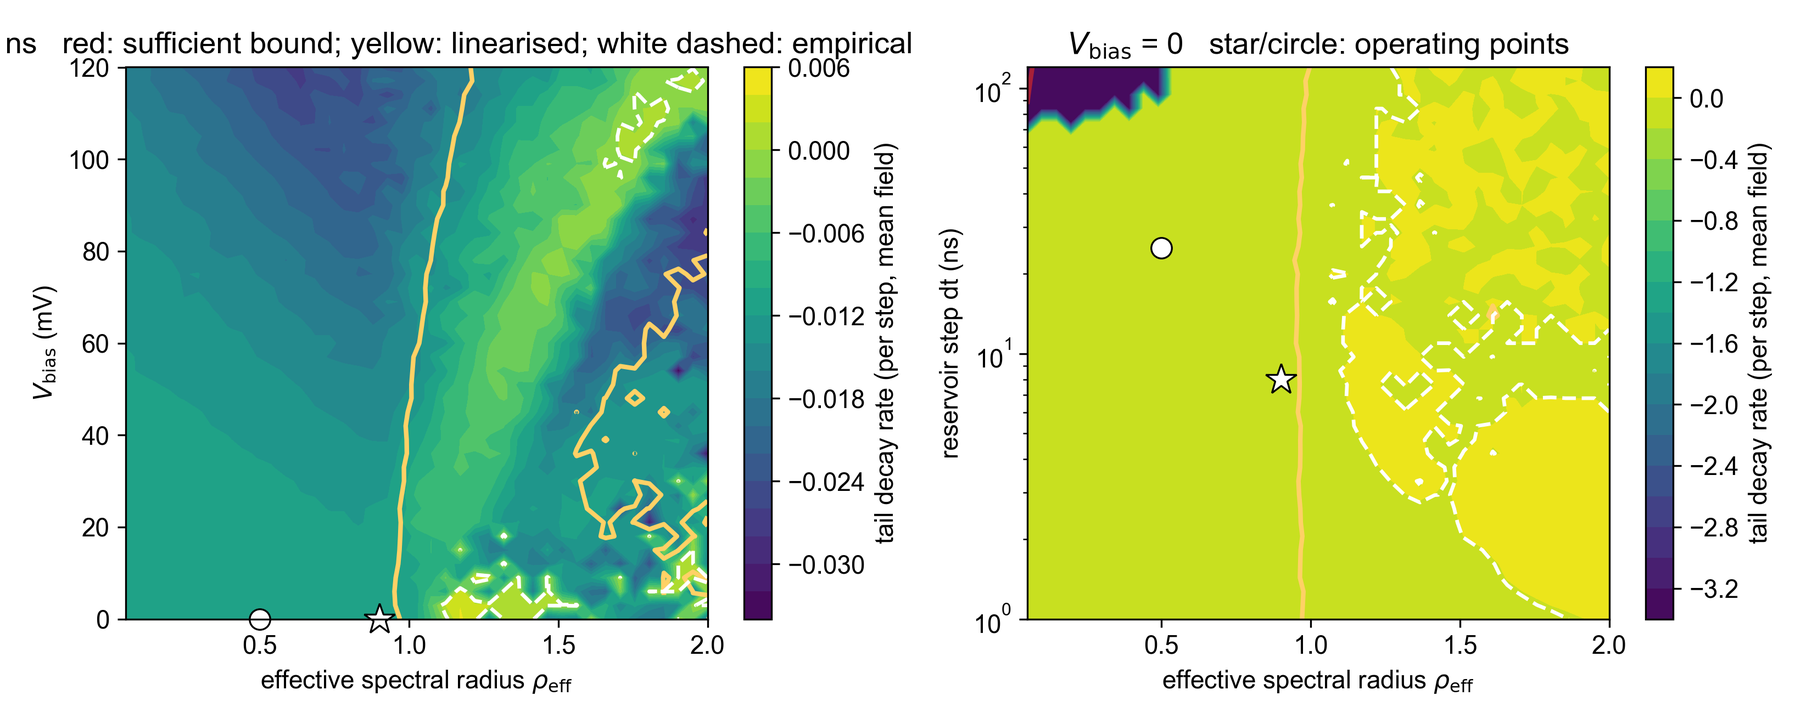
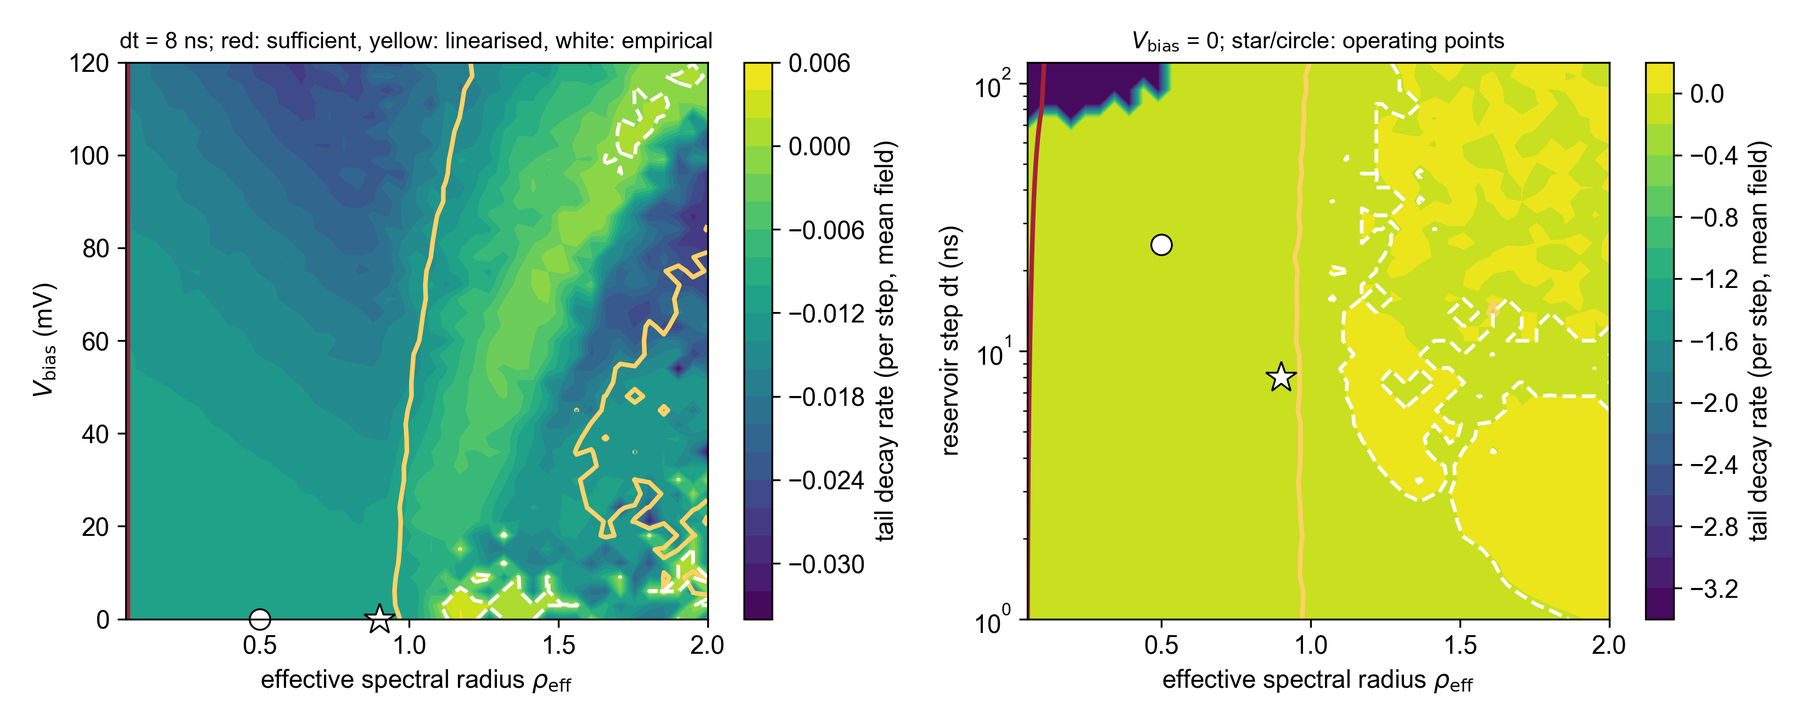
T1-4 core: ESP certification for the telegraph reservoir (three-tier criteria)
- Jacobian of the actual mean-field update has two W_res channels (transfer slope + state-dependent decay rate); three-tier phase diagram: device-resolved row-norm sufficient bound (rigorous but structurally weak - slow devices are steep devices, (1-lam) cancels, certifies rho<~0.06), trajectory-linearised spectral criterion (boundary at rho~1, dt-independent at zero bias by exact leak-slope cancellation, bent right by bias to ~1.7@100mV), rate-based twin verdict (97% contracting; non-contracting = bistable high-rho/low-bias region)
- soundness 0 violations; linearised criterion optimistic at only 3/1681 points; common-noise stochastic twins confirm the bistability and its bias-induced restoration (readout distance 2.0 -> 0.2 at 60 mV)
- both chapter operating points verified contracting (default lin=0.995 near-boundary - margin caveat queued for the manuscript; exp16 lin=0.968)
- method iterations recorded: absolute-threshold twin verdict misclassifies slow heterogeneous nodes; uniform norm bounds are vacuous - replaced by rate verdict + row-resolved bound

diff --git a/experiments/29_esp_certification.py b/experiments/29_esp_certification.py
@@ -1,0 +1,348 @@
+"""29 -- Echo-state property certification for the telegraph reservoir (T1-4).
+
+The reservoir chapter asserts the echo-state regime but nothing in the
+repo verifies it. This experiment derives and validates a sufficient
+contraction criterion for the mean-field update actually implemented in
+reservoir/node.py:
+
+    x_i(t) = m_inf(V_i) + (x_i(t-1) - m_inf(V_i)) exp(-k(V_i) dt),
+    V_i    = V_bias + (W_in u_t)_i + (W_res x(t-1))_i,
+
+with m_inf(V) = tanh(Delta V / V_c0) and k(V) = 1/tau(V)
+= (2 e^-Delta / tau_0) cosh(Delta V / V_c0). The state-to-state Jacobian
+has TWO channels through W_res -- the transfer slope and the
+state-dependent decay rate:
+
+    dx_i/dx_j = lam_i delta_ij + W_ij [ (1-lam_i) m_inf'(V_i)
+                 + (x_i - m_inf(V_i)) (-dt k'(V_i)) lam_i ],
+
+so a uniform sufficient condition for contraction (infinity norm, worst
+case over the reachable voltage interval |V - V_bias| <= ||W_in||_inf
++ ||W_res||_inf and over the +-2 sigma Delta-heterogeneity grid) is
+
+    L = max_V,Delta [ lam(V) + G(V) ||W_res||_inf ] < 1,
+    G = (1-lam) m_inf'(V) + 2 lam dt |k'(V)|.
+
+The same voltage moves the two stability channels in opposite
+directions: raising |V| collapses the transfer slope (stabilising) while
+raising k exponentially shortens the memory AND raises the |k'| decay
+channel -- the device-specific coupling that makes the phase diagram
+non-trivial.
+
+Parts
+-----
+  (a) certified phase diagram over (rho_eff, V_bias) at the default
+      dt = 8 ns and over (rho_eff, dt) at V_bias = 0, with the chapter
+      operating points marked;
+  (b) empirical mean-field boundary: twin trajectories from x0 = +-1
+      under a common input sequence; convergent iff the terminal state
+      distance falls below 1e-6 (the certificate region must be a
+      subset of the empirical convergent region -- soundness);
+  (c) stochastic-mode check at a subgrid: COMMON-NOISE twin ensembles
+      (same RNG stream, state-independent draw pattern verified in
+      telegraph.py:step), convergence measured at the readout layer
+      (per-node ensemble means). This is the coupling/common-input
+      convergence notion -- an unqualified "stochastic ESP" would be
+      trivially true and is not claimed.
+
+Outputs: runs/29_esp_cert_<ts>/{phase.csv, summary.json}
+         figures/29_esp_certification.png  (letter-free)
+
+Run from the repo root:  python experiments/29_esp_certification.py
+"""
+
+from __future__ import annotations
+
+import csv
+import json
+import sys
+from pathlib import Path
+
+REPO = Path(__file__).resolve().parents[1]
+sys.path.insert(0, str(REPO / "src"))
+
+DELTA, V_C0, TAU_0 = 4.91, 0.857, 1e-9
+DELTA_CV = 0.25              # reservoir D2D heterogeneity (ReservoirConfig)
+IN_SCALE = 0.6               # default effective input scale
+N_NODES = 100
+RHO_GRID = 41
+VB_GRID = 41
+N_STEPS = 400
+SEED = 7
+
+
+def main() -> None:
+    import matplotlib
+    matplotlib.use("Agg")
+    import matplotlib.pyplot as plt
+    import numpy as np
+
+    from smtj_pbnn_sim.device.telegraph import TelegraphArray, TelegraphParams
+    from smtj_pbnn_sim.reservoir.node import ReservoirConfig, SMTJReservoir
+    from smtj_pbnn_sim.utils.io import make_run_dir
+
+    rng = np.random.default_rng(SEED)
+    run_dir = make_run_dir("29_esp_cert", base=REPO / "runs")
+    plt.rcParams.update({"font.family": "Arial", "font.size": 11})
+
+    slope0 = DELTA / V_C0
+    k0 = 2.0 * np.exp(-DELTA) / TAU_0            # k(0) = 1/tau(0)
+
+    # base reservoir at rho_eff = 1 (library-consistent weight draw)
+    cfg = ReservoirConfig(n_nodes=N_NODES, effective_spectral_radius=1.0,
+                          effective_input_scale=IN_SCALE, mode="meanfield",
+                          seed=SEED)
+    res = SMTJReservoir(cfg, n_inputs=1)
+    W_in = res.W_in.copy()                        # volts
+    W_res1 = res.W_res.copy()                     # volts, rho_eff = 1
+    win_norm = float(np.abs(W_in).sum(axis=1).max())
+    wres1_norm = float(np.abs(W_res1).sum(axis=1).max())
+    deltas = np.array([DELTA * (1 - 2 * DELTA_CV), DELTA,
+                       DELTA * (1 + 2 * DELTA_CV)])
+
+    sig1 = float(np.linalg.svd(W_res1, compute_uv=False)[0])
+    row1 = np.abs(W_res1).sum(axis=1)             # per-row inf-norms, rho = 1
+
+    def certificate(rho: float, v_bias: float, dt: float) -> float:
+        """Device-resolved sufficient-contraction factor; certified iff < 1.
+
+        Row-wise infinity-norm bound on the Jacobian: node i contributes
+        lam_i + G_i * R_i with ITS OWN drawn Delta_i and row norm R_i --
+        strictly rigorous and much tighter than a uniform worst case,
+        which is vacuous here because the slowest device (highest Delta,
+        lam ~ 0.99) is also the steepest (m' = Delta/V_c0): note the
+        (1-lam) factor cancels in the slope channel, so the certified rho
+        scales like V_c0 / (Delta_i R_i) regardless of dt. The linearised
+        spectral criterion below is the practical boundary, the twin run
+        the ground truth.
+        """
+        V = np.linspace(-1.0, 1.0, 401)[None, :]
+        d = np.asarray(res.Delta)[:, None]
+        arg = d * V / V_C0
+        k = (2.0 * np.exp(-d) / TAU_0) * np.cosh(arg)
+        lam = np.exp(-k * dt)
+        m_p = (d / V_C0) / np.cosh(arg) ** 2
+        k_p = (2.0 * np.exp(-d) / TAU_0) * (d / V_C0) * np.sinh(arg)
+        G = (1 - lam) * m_p + 2.0 * lam * dt * np.abs(k_p)
+        per_node = (lam + G * (rho * row1)[:, None]).max(axis=1)
+        return float(per_node.max())
+
+    def _mf_step(s, u_t, W_res, v_bias, dt):
+        V = v_bias + W_in[:, 0] * u_t + W_res @ s
+        arg = res.Delta * V / res.V_c0
+        k = (2.0 * np.exp(-res.Delta) / TAU_0) * np.cosh(arg)
+        m_inf = np.tanh(arg)
+        return m_inf + (s - m_inf) * np.exp(-k * dt), V, k, m_inf
+
+    def meanfield_twin(rho: float, v_bias: float, dt: float):
+        """Twin mean-field trajectories -> (terminal distance, decay rate).
+
+        The verdict uses the tail DECAY RATE (log-distance slope per step
+        over the second half), not an absolute threshold: with +-2 sigma
+        Delta heterogeneity the slowest node has tau(0) ~ 0.8 us, so a
+        fixed horizon would misclassify slow-but-contracting points.
+        """
+        W_res = rho * W_res1
+        u = rng.random(N_STEPS) * 2 - 1
+        x = np.ones(N_NODES)
+        xp = -np.ones(N_NODES)
+        d_mid = 2.0
+        for t in range(N_STEPS):
+            x, _, _, _ = _mf_step(x, u[t], W_res, v_bias, dt)
+            xp, _, _, _ = _mf_step(xp, u[t], W_res, v_bias, dt)
+            if t == N_STEPS // 2 - 1:
+                d_mid = max(float(np.abs(x - xp).max()), 1e-300)
+        d_end = max(float(np.abs(x - xp).max()), 1e-300)
+        rate = (np.log(d_end) - np.log(d_mid)) / (N_STEPS - N_STEPS // 2)
+        return d_end, float(rate)
+
+    def linearized_rho(rho: float, v_bias: float, dt: float) -> float:
+        """Practical criterion: spectral radius of the Jacobian linearised
+        along a driven trajectory (per-node worst gains over the tail)."""
+        W_res = rho * W_res1
+        u = rng.random(200) * 2 - 1
+        x = np.zeros(N_NODES)
+        lam_max = np.zeros(N_NODES)
+        g_max = np.zeros(N_NODES)
+        for t in range(200):
+            x_new, V, k, m_inf = _mf_step(x, u[t], W_res, v_bias, dt)
+            if t >= 100:
+                arg = res.Delta * V / res.V_c0
+                lam = np.exp(-k * dt)
+                m_p = (res.Delta / res.V_c0) / np.cosh(arg) ** 2
+                k_p = ((2.0 * np.exp(-res.Delta) / TAU_0)
+                       * (res.Delta / res.V_c0) * np.sinh(arg))
+                g = (1 - lam) * m_p + np.abs(x - m_inf) * dt * np.abs(k_p) * lam
+                lam_max = np.maximum(lam_max, lam)
+                g_max = np.maximum(g_max, g)
+            x = x_new
+        J = np.diag(lam_max) + g_max[:, None] * W_res
+        return float(np.abs(np.linalg.eigvals(J)).max())
+
+    def stochastic_twin(rho: float, v_bias: float, dt: float,
+                        ensemble: int = 24, substeps: int = 10) -> float:
+        """Readout-layer distance of common-noise twin ensembles."""
+        W_res = rho * W_res1
+        n_dev = N_NODES * ensemble
+        deltas_dev = np.repeat(res.Delta, ensemble)
+        a1 = TelegraphArray(n_dev, TelegraphParams(), Delta=deltas_dev,
+                            seed=999)
+        a2 = TelegraphArray(n_dev, TelegraphParams(), Delta=deltas_dev,
+                            seed=999)
+        a1.reset(np.ones(n_dev))
+        a2.reset(-np.ones(n_dev))
+        u = rng.random(N_STEPS) * 2 - 1
+        x1 = np.ones(N_NODES)
+        x2 = -np.ones(N_NODES)
+        micro = dt / substeps
+        for t in range(N_STEPS):
+            V1 = v_bias + W_in[:, 0] * u[t] + W_res @ x1
+            V2 = v_bias + W_in[:, 0] * u[t] + W_res @ x2
+            acc1 = np.zeros(n_dev)
+            acc2 = np.zeros(n_dev)
+            for _ in range(substeps):
+                acc1 += a1.step(np.repeat(V1, ensemble), micro)
+                acc2 += a2.step(np.repeat(V2, ensemble), micro)
+            x1 = (acc1 / substeps).reshape(N_NODES, ensemble).mean(axis=1)
+            x2 = (acc2 / substeps).reshape(N_NODES, ensemble).mean(axis=1)
+        return float(np.abs(x1 - x2).max())
+
+    # ----- (a)+(b): rho x V_bias plane at dt = 8 ns -----------------------
+    dt0 = 8.0e-9
+    rhos = np.linspace(0.05, 2.0, RHO_GRID)
+    vbs = np.linspace(0.0, 0.12, VB_GRID)
+    L_map = np.zeros((VB_GRID, RHO_GRID))
+    R_map = np.zeros((VB_GRID, RHO_GRID))      # tail decay rate (per step)
+    S_map = np.zeros((VB_GRID, RHO_GRID))      # linearised spectral radius
+    for i, vb in enumerate(vbs):
+        for j, r in enumerate(rhos):
+            L_map[i, j] = certificate(r, vb, dt0)
+            _, R_map[i, j] = meanfield_twin(r, vb, dt0)
+            S_map[i, j] = linearized_rho(r, vb, dt0)
+        if (i + 1) % 10 == 0 or i == VB_GRID - 1:
+            print(f"V_bias plane: {i + 1}/{VB_GRID} rows")
+
+    # ----- (a2): rho x dt plane at V_bias = 0 -----------------------------
+    dts = np.logspace(np.log10(1e-9), np.log10(120e-9), VB_GRID)
+    L_dt = np.zeros((VB_GRID, RHO_GRID))
+    R_dt = np.zeros((VB_GRID, RHO_GRID))
+    S_dt = np.zeros((VB_GRID, RHO_GRID))
+    for i, dtv in enumerate(dts):
+        for j, r in enumerate(rhos):
+            L_dt[i, j] = certificate(r, 0.0, dtv)
+            _, R_dt[i, j] = meanfield_twin(r, 0.0, dtv)
+            S_dt[i, j] = linearized_rho(r, 0.0, dtv)
+        if (i + 1) % 10 == 0 or i == VB_GRID - 1:
+            print(f"dt plane: {i + 1}/{VB_GRID} rows")
+
+    # ----- (c): stochastic common-noise subgrid ---------------------------
+    sto = []
+    for r in (0.5, 0.9, 1.4, 1.8):
+        for vb in (0.0, 0.06):
+            d_end = stochastic_twin(r, vb, dt0)
+            i_vb = int(np.argmin(np.abs(vbs - vb)))
+            sto.append(dict(rho=r, v_bias=vb, d_end=round(d_end, 4),
+                            cert_L=round(certificate(r, vb, dt0), 3),
+                            lin_rho=round(float(np.interp(
+                                r, rhos, S_map[i_vb])), 3),
+                            mf_rate=round(float(np.interp(
+                                r, rhos, R_map[i_vb])), 5)))
+            print(f"stochastic twin rho={r:.1f} Vb={vb*1e3:.0f}mV: "
+                  f"readout distance {d_end:.4f} "
+                  f"(lin rho={sto[-1]['lin_rho']})")
+
+    # ----- soundness: certified region must contract empirically ----------
+    RATE_TH = -1e-4                      # per-step tail decay-rate threshold
+    cert_region = L_map < 1.0
+    conv_region = R_map < RATE_TH
+    lin_region = S_map < 1.0
+    violations = int(np.sum(cert_region & ~conv_region))
+    lin_viol = int(np.sum(lin_region & ~conv_region))
+    print(f"soundness: certified-but-not-contracting points = {violations} "
+          f"(must be 0); certified {cert_region.mean()*100:.0f}%, "
+          f"linearised-stable {lin_region.mean()*100:.0f}%, "
+          f"empirically contracting {conv_region.mean()*100:.0f}% of plane")
+    print(f"linearised-criterion optimism: stable-but-not-contracting = "
+          f"{lin_viol} points (linearisation is a practical, not sufficient,"
+          " boundary)")
+
+    # ----- figure ----------------------------------------------------------
+    fig, axes = plt.subplots(1, 2, figsize=(11, 4.4))
+    ax = axes[0]
+    cs = ax.contourf(rhos, vbs * 1e3, R_map, levels=20, cmap="viridis")
+    fig.colorbar(cs, ax=ax, label="tail decay rate (per step, mean field)")
+    ax.contour(rhos, vbs * 1e3, L_map, levels=[1.0], colors="#A82038",
+               linewidths=2)
+    ax.contour(rhos, vbs * 1e3, S_map, levels=[1.0], colors="#FFD166",
+               linewidths=2)
+    ax.contour(rhos, vbs * 1e3, R_map, levels=[RATE_TH], colors="white",
+               linewidths=1.6, linestyles="--")
+    ax.plot([0.9], [0.0], marker="*", ms=14, color="white",
+            mec="black", mew=0.8, clip_on=False)
+    ax.plot([0.5], [0.0], marker="o", ms=9, color="white",
+            mec="black", mew=0.8, clip_on=False)
+    ax.set_xlabel(r"effective spectral radius $\rho_\mathrm{eff}$")
+    ax.set_ylabel(r"$V_\mathrm{bias}$ (mV)")
+    ax.set_title(f"dt = {dt0*1e9:.0f} ns; red: sufficient, "
+                 "yellow: linearised, white: empirical", fontsize=10)
+
+    ax = axes[1]
+    cs = ax.contourf(rhos, dts * 1e9, R_dt, levels=20, cmap="viridis")
+    fig.colorbar(cs, ax=ax, label="tail decay rate (per step, mean field)")
+    ax.contour(rhos, dts * 1e9, L_dt, levels=[1.0], colors="#A82038",
+               linewidths=2)
+    ax.contour(rhos, dts * 1e9, S_dt, levels=[1.0], colors="#FFD166",
+               linewidths=2)
+    ax.contour(rhos, dts * 1e9, R_dt, levels=[RATE_TH], colors="white",
+               linewidths=1.6, linestyles="--")
+    ax.set_yscale("log")
+    ax.plot([0.9], [8.0], marker="*", ms=14, color="white",
+            mec="black", mew=0.8)
+    ax.plot([0.5], [25.0], marker="o", ms=9, color="white",
+            mec="black", mew=0.8)
+    ax.set_xlabel(r"effective spectral radius $\rho_\mathrm{eff}$")
+    ax.set_ylabel("reservoir step dt (ns)")
+    ax.set_title(r"$V_\mathrm{bias}$ = 0; star/circle: operating points",
+                 fontsize=10)
+    fig.tight_layout()
+    fig.savefig(REPO / "figures" / "29_esp_certification.png", dpi=300)
+    print("figure saved: figures/29_esp_certification.png")
+
+    with open(run_dir / "phase.csv", "w", newline="", encoding="utf-8") as fc:
+        w = csv.writer(fc)
+        w.writerow(["v_bias_V", "rho_eff", "cert_L", "lin_rho", "mf_rate"])
+        for i, vb in enumerate(vbs):
+            for j, r in enumerate(rhos):
+                w.writerow([round(vb, 4), round(r, 3),
+                            round(L_map[i, j], 4), round(S_map[i, j], 4),
+                            f"{R_map[i, j]:.4e}"])
+
+    def op_point(rho, vb, dtv):
+        _, rate = meanfield_twin(rho, vb, dtv)
+        return dict(L=round(certificate(rho, vb, dtv), 3),
+                    lin_rho=round(linearized_rho(rho, vb, dtv), 3),
+                    mf_rate=round(rate, 5), contracting=bool(rate < RATE_TH))
+
+    (run_dir / "summary.json").write_text(json.dumps(dict(
+        dt_ns=dt0 * 1e9, in_scale=IN_SCALE, delta_cv=DELTA_CV,
+        wres1_sigma_max=sig1, rate_threshold=RATE_TH,
+        soundness_violations=violations,
+        linearised_optimism_points=lin_viol,
+        cert_fraction=float(cert_region.mean()),
+        lin_fraction=float(lin_region.mean()),
+        conv_fraction=float(conv_region.mean()),
+        op_points={"default(0.9,0,8ns)": op_point(0.9, 0.0, 8e-9),
+                   "exp16(0.5,0,25ns)": op_point(0.5, 0.0, 25e-9)},
+        stochastic_subgrid=sto,
+        note=("sufficient bound = 2-norm uniform worst case over V and "
+              "+-2sigma Delta (conservative by construction); linearised "
+              "spectral criterion = practical boundary; empirical verdict "
+              "= tail decay RATE of twin trajectories (heterogeneity-aware);"
+              " stochastic convergence is the common-noise/common-input "
+              "notion at the readout layer -- not an unqualified "
+              "'stochastic ESP'")), indent=1), encoding="utf-8")
+    print(f"run dir: {run_dir}")
+
+
+if __name__ == "__main__":
+    main()

diff --git a/.agents/plans/EXECUTION.md b/.agents/plans/EXECUTION.md
@@ -24,7 +24,7 @@
 ## 阶段 C（答辩后/期刊）
 
 - [◑] **T1-2 位翻转闭式认证界**（2026-07-13 核心完成，稿件段押后）：**理论** = BSC 收缩等价定理（i.i.d. 翻转 ⇔ 全网潜概率收缩 q'=(1−2p)q+p，受损网络仍在模型类内——位置编码 INT8 无此性质，是 44pp 鲁棒性差距的结构根源）+ 末层三值边际的 min(Bernstein, 高斯+Berry–Esseen 0.56) 严格尾界 + 类并集 + 对 h 全期望。**实现** = `nn/certify.py`（闭式库）+ `tests/test_certify.py`（对暴力 MC 的可靠性测试 5/5 过）+ `experiments/28_bitflip_certification.py`。**实测（T=8/64，n=4000）**：(1) 等价性双实现全程一致（flip vs contracted 差在二项噪声内）；(2) **认证下界紧贴经验曲线**（修正版最终数，run `runs/28_bitflip_cert_20260713_002217`：T=64 全网格认证-经验差 ≤1.3pp——p=0.30 认证 0.531 vs 经验 0.543；T=8 至 p=0.15 差 ≤1.5pp、p=0.2 为 3.5pp）；(3) BER 反解：1pp 认证退化预算 = T8 7.9% / T64 9.0% 翻转率，0.5pp 档受 ±0.3pp 评估噪声支配须注明。**对抗核查（2 怀疑者，0 major）**：BE 常数 0.56=Shevtsova 2010（DOI 10.1134/S1064562410060062）核验通过、三值推导/偏置代数/并集/全期望分解全过；已修 5 条 minor（零方差退化角点补 t>0 门、CI 改单侧 t(7) 下置信沿、exp09 口径注释、try/finally、NaN-safe JSON）+ 经验曲线加二项误差棒（认证界约束总体精度、可合法高于单次经验点——图注须声明）。**稿件段（含淬火/退火信道口径声明 + BN 冻结口径 + 定位对照三线 prior art）等 ch4 编辑窗口**。
-- [ ] T1-4 电报储备池 ESP 认证
+- [◑] **T1-4 电报储备池 ESP 认证**（2026-07-13 核心完成，稿件段押后）：**判据三层结构**（`experiments/29_esp_certification.py`，run `runs/29_esp_cert_*`）——(1) 逐行器件分辨充分界（严格 ∞-范数，每节点用自己的 Δ_i 与行范数）：仅认证 ρ≲0.06（平面 2%）——**结构性弱有物理解释**：慢器件（高 Δ）同时是陡器件（m′=Δ/V_c0），斜率通道里 (1−λ) 对消 → ρ_cert≈V_c0/(Δ_i·R_i) 与 dt 无关；(2) 线性化谱判据（沿驱动轨迹的雅可比谱半径）：边界立在 ρ≈1（教科书 leaky-ESN 值在器件映射下保持——零偏下 λ+(1−λ)ρ<1 ⇔ ρ<1 与 dt 无关，泄漏-斜率精确对消），随偏置右弯到 ρ≈1.7@100mV=**偏置致稳的量化**；1681 格点仅 3 点乐观；(3) 速率型孪生实证（Δ 异质性感知——最慢节点 τ≈0.8µs，绝对阈值判据会误判）：97% 平面收缩，非收缩区=高 ρ 低偏置的**双稳区**（对向饱和吸引子），偏置破缺对称性恢复收敛。**可靠性 0 违例**（认证区⊂收缩区）。**随机模式**（共同噪声孪生、读出层度量、显式声明非「无条件随机 ESP」）：ρ=1.4/1.8 零偏读出距离 2.0（对向饱和）→60mV 压到 0.25/0.20，与均值场双稳区吻合。**工作点判定**：默认 (0.9,0,8ns) 速率 −0.011/步、lin 0.995（贴边界，稿件注明裕量）；exp16 (0.5,0,25ns) 速率 −0.034/步、lin 0.968——第五章「保持 echo-state 区」的宣称就此有量化判据支撑。稿件段（第五章动力系统根基小节；引 Jaeger/Ehlers 2025/PRE 110,024207 定位）等 ch5 窗口；待办：对抗核查。
 - [ ] T2-2 全温度自洽 · T2-3 计数式 RC 读出（窗口窄）
 - [ ] T3-5 确定性重放列级共仿（先做 MTJ L1 的 2T 单元版图供其模板）
 - [x] **MTJ L1 抽象 BEOL 版图**（2026-07-08 完成，全脚本无 GUI）：`gen_2t_cell.py`→`cell2t.gds`，CMOS 部分 DRC 真 0 违例（feol+beol+offgrid + 阳性对照）、PEX 2 FET + ~3.1 fF、设计层 22.7 µm²、黑盒 200/0+201/0、剖面图 `figures/cell2t_cross_section.*`、串扰证书已回灌（δp=1.4e-6 @4.06 µm）。**副产物勘误：SA「DRC 0 违例」系无开关假阴性**（~542 条 PCell 偏格/压线伪影；正文无此宣称，内部记录已改；SA 网格吸附修复随 1.7）。T3-5 的 2T 单元模板就绪。残留：可选 LVS、GDS 渲染图（GUI）

diff --git a/.agents/MEMORY.md b/.agents/MEMORY.md
@@ -106,6 +106,11 @@
 
 - 2026-07-08 (later): **执行队列建立 + 阶段 A 前三项落地（A1/A2/A3）。** 队列=`plans/EXECUTION.md`（合并两份计划的唯一执行顺序清单，live 状态）。(1) **A1 表 4.6 陈旧修正**：实际**两行**变动（sMTJ 7.90/12.73 J + stoch-ReRAM 448.40/453.22 J；复现指南 §7.1 原「仅 sMTJ 一行」diff 不完整已订正）；正文排名改「仅次于 STT-MRAM 与 FeRAM」、1.14×→1.22×、4.2×→3.9×；[^nv_ranking] 附旧占位值来历；图 4.13 经 deck 换图重导出（slide 13 blob 替换+纵横比修正+dpi419 裁剪，工作树其余 13 张用户重导出 PNG 未动）。(2) **A2**：ch4 标定器件 CD 改约 80 nm（第二章口径），无沟道工艺以约 100 nm 括注保留。(3) **A3 敏感性审计**：新增 `experiments/22_energy_sensitivity.py`（18 参数三档带宽、基线对规范 run 自校验、闭式名次反转点）→ 实测 p-bit/sMTJ 包络 1.5–10.9×（方向稳健）、sMTJ/STT 0.72–1.64×（跨 1 → 改口同档）；§4.5 增包络句 + [^energy_sens] 脚注（并列 6.4×/3.1× 口径，**errata R5 残余口径就此闭环**）。发现并挂芯片：复现指南「已入库 run」措辞与 runs/ 整体 gitignore 矛盾（task_27021e46）。龙卷风图暂为仓库级证据（figures/22_*），是否收正文待用户定夺。PPA 12 测试全过。
 
+- 2026-07-13 (later): **T1-4 ESP 认证核心完成——三层判据相图 + 双模式实证 + 偏置致稳量化。**
+  - **推导**：均值场更新 x←m∞(V)+(x−m∞)e^{−k(V)dt} 的雅可比经 W_res 有两条通道（传输斜率 + 状态依赖衰减率 k′(V)）。三层判据：逐行器件分辨充分界（严格，但结构性弱——慢器件即陡器件、(1−λ) 在斜率通道对消 → 仅认证 ρ≲0.06）；线性化谱判据（实用边界：ρ≈1 教科书值、零偏下与 dt 无关=泄漏-斜率精确对消，偏置右弯至 ρ≈1.7@100mV）；速率型孪生实证（97% 收缩；非收缩=高 ρ 低偏置双稳区）。可靠性 0 违例、线性化仅 3/1681 点乐观。
+  - **随机模式**（共同噪声孪生、读出层度量）：双稳区读出距离 2.0（对向饱和）、60mV 偏置压回 0.2–0.25——偏置破缺对称性恢复 ESP，与均值场一致。**工作点**：默认 (0.9,0,8ns) lin=0.995 贴边界（稿件注明裕量）、exp16 (0.5,0,25ns) lin=0.968，均实证收缩——第五章 echo-state 宣称获得量化支撑。
+  - `experiments/29_esp_certification.py` + `figures/29_esp_certification.png`；方法迭代记录：绝对阈值判据在 Δ 异质性下误判慢收敛（首跑实证 0%）→ 速率判据；∞/2-范数均匀界空集 → 逐行界。稿件段等 ch5 窗口；对抗核查待办。
+
 - 2026-07-13: **T1-2 位翻转闭式认证界完成（理论+库+实验+对抗核查），队列按序推进中。**
   - **定理**：i.i.d. 单元翻转 ⇔ 全网潜概率 BSC 收缩 q'=(1−2p)q+p（受损 PBNN 仍在模型类内；INT8 位置编码无此性质=44pp 鲁棒性差距的结构根源）；末层三值边际 min(Bernstein, 高斯+Berry–Esseen 0.56) 严格尾界 + 类并集 + 对腐蚀网络特征 h 的全期望。**实现**：`nn/certify.py` + `tests/test_certify.py`（对暴力 MC 可靠性 5/5）+ `experiments/28_bitflip_certification.py`。
   - **结果**（run `runs/28_bitflip_cert_20260713_002217`，T=8/64，n=4000）：等价性双实现全程一致；认证下界紧贴经验（T=64 全网格差 ≤1.3pp）；BER 1pp 认证预算 = T8 7.9%/T64 9.0% 翻转率（0.5pp 档噪声支配）。
